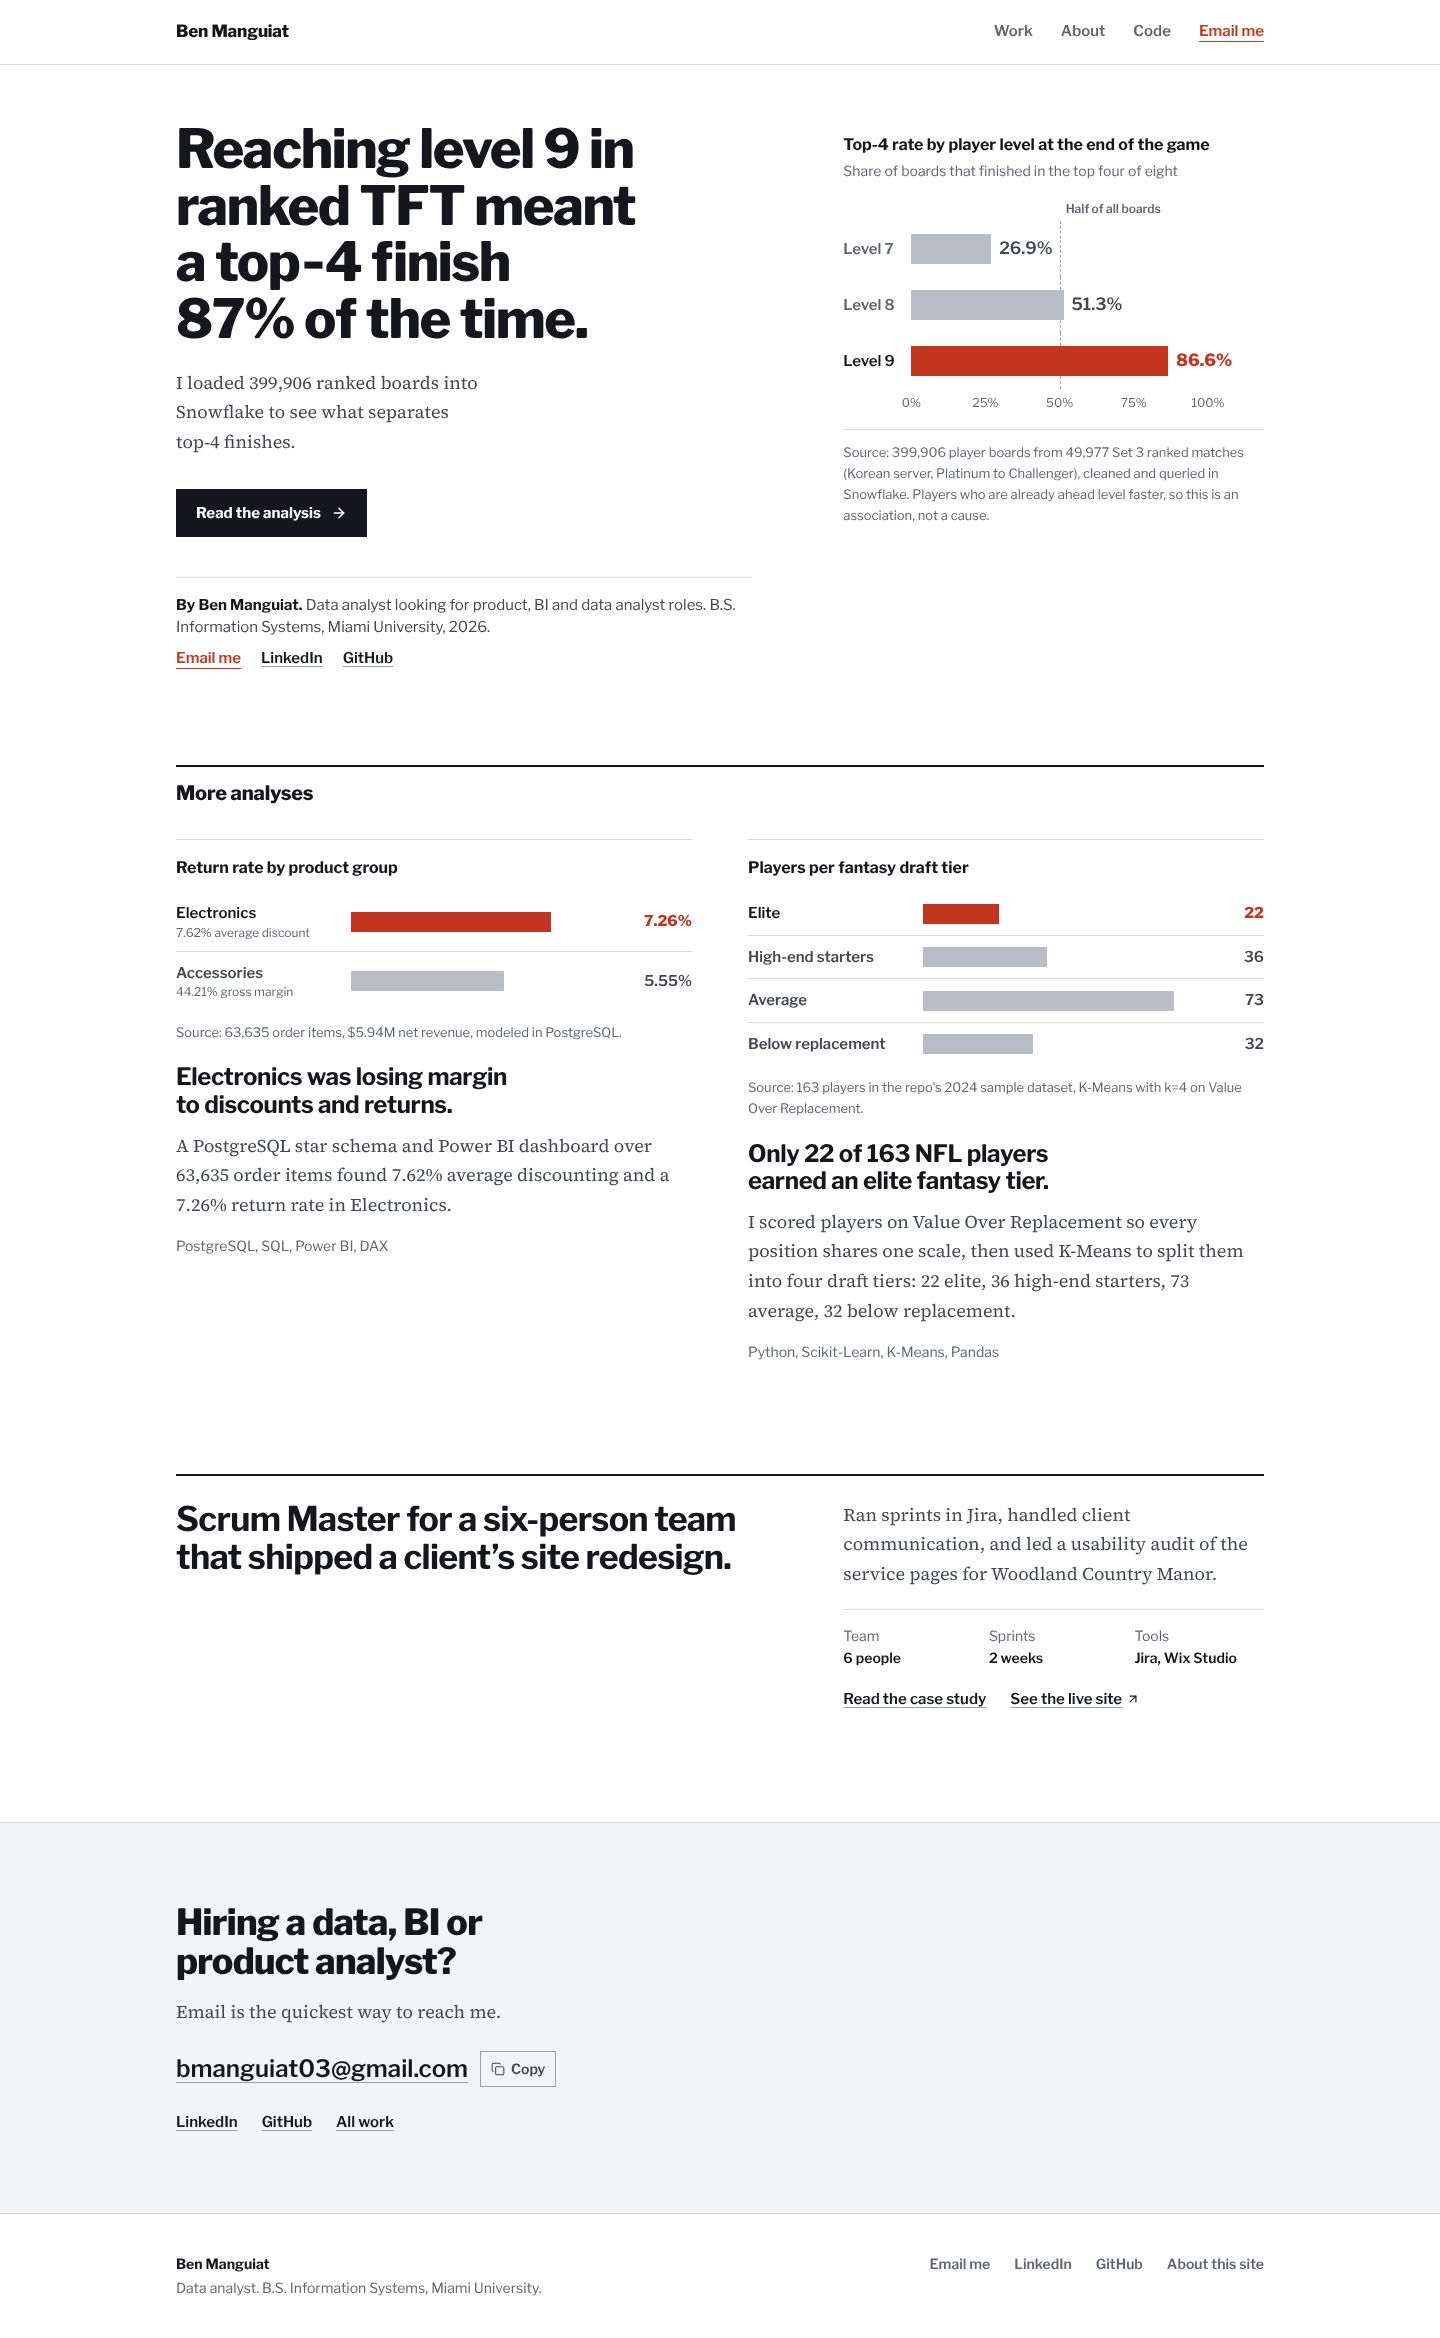
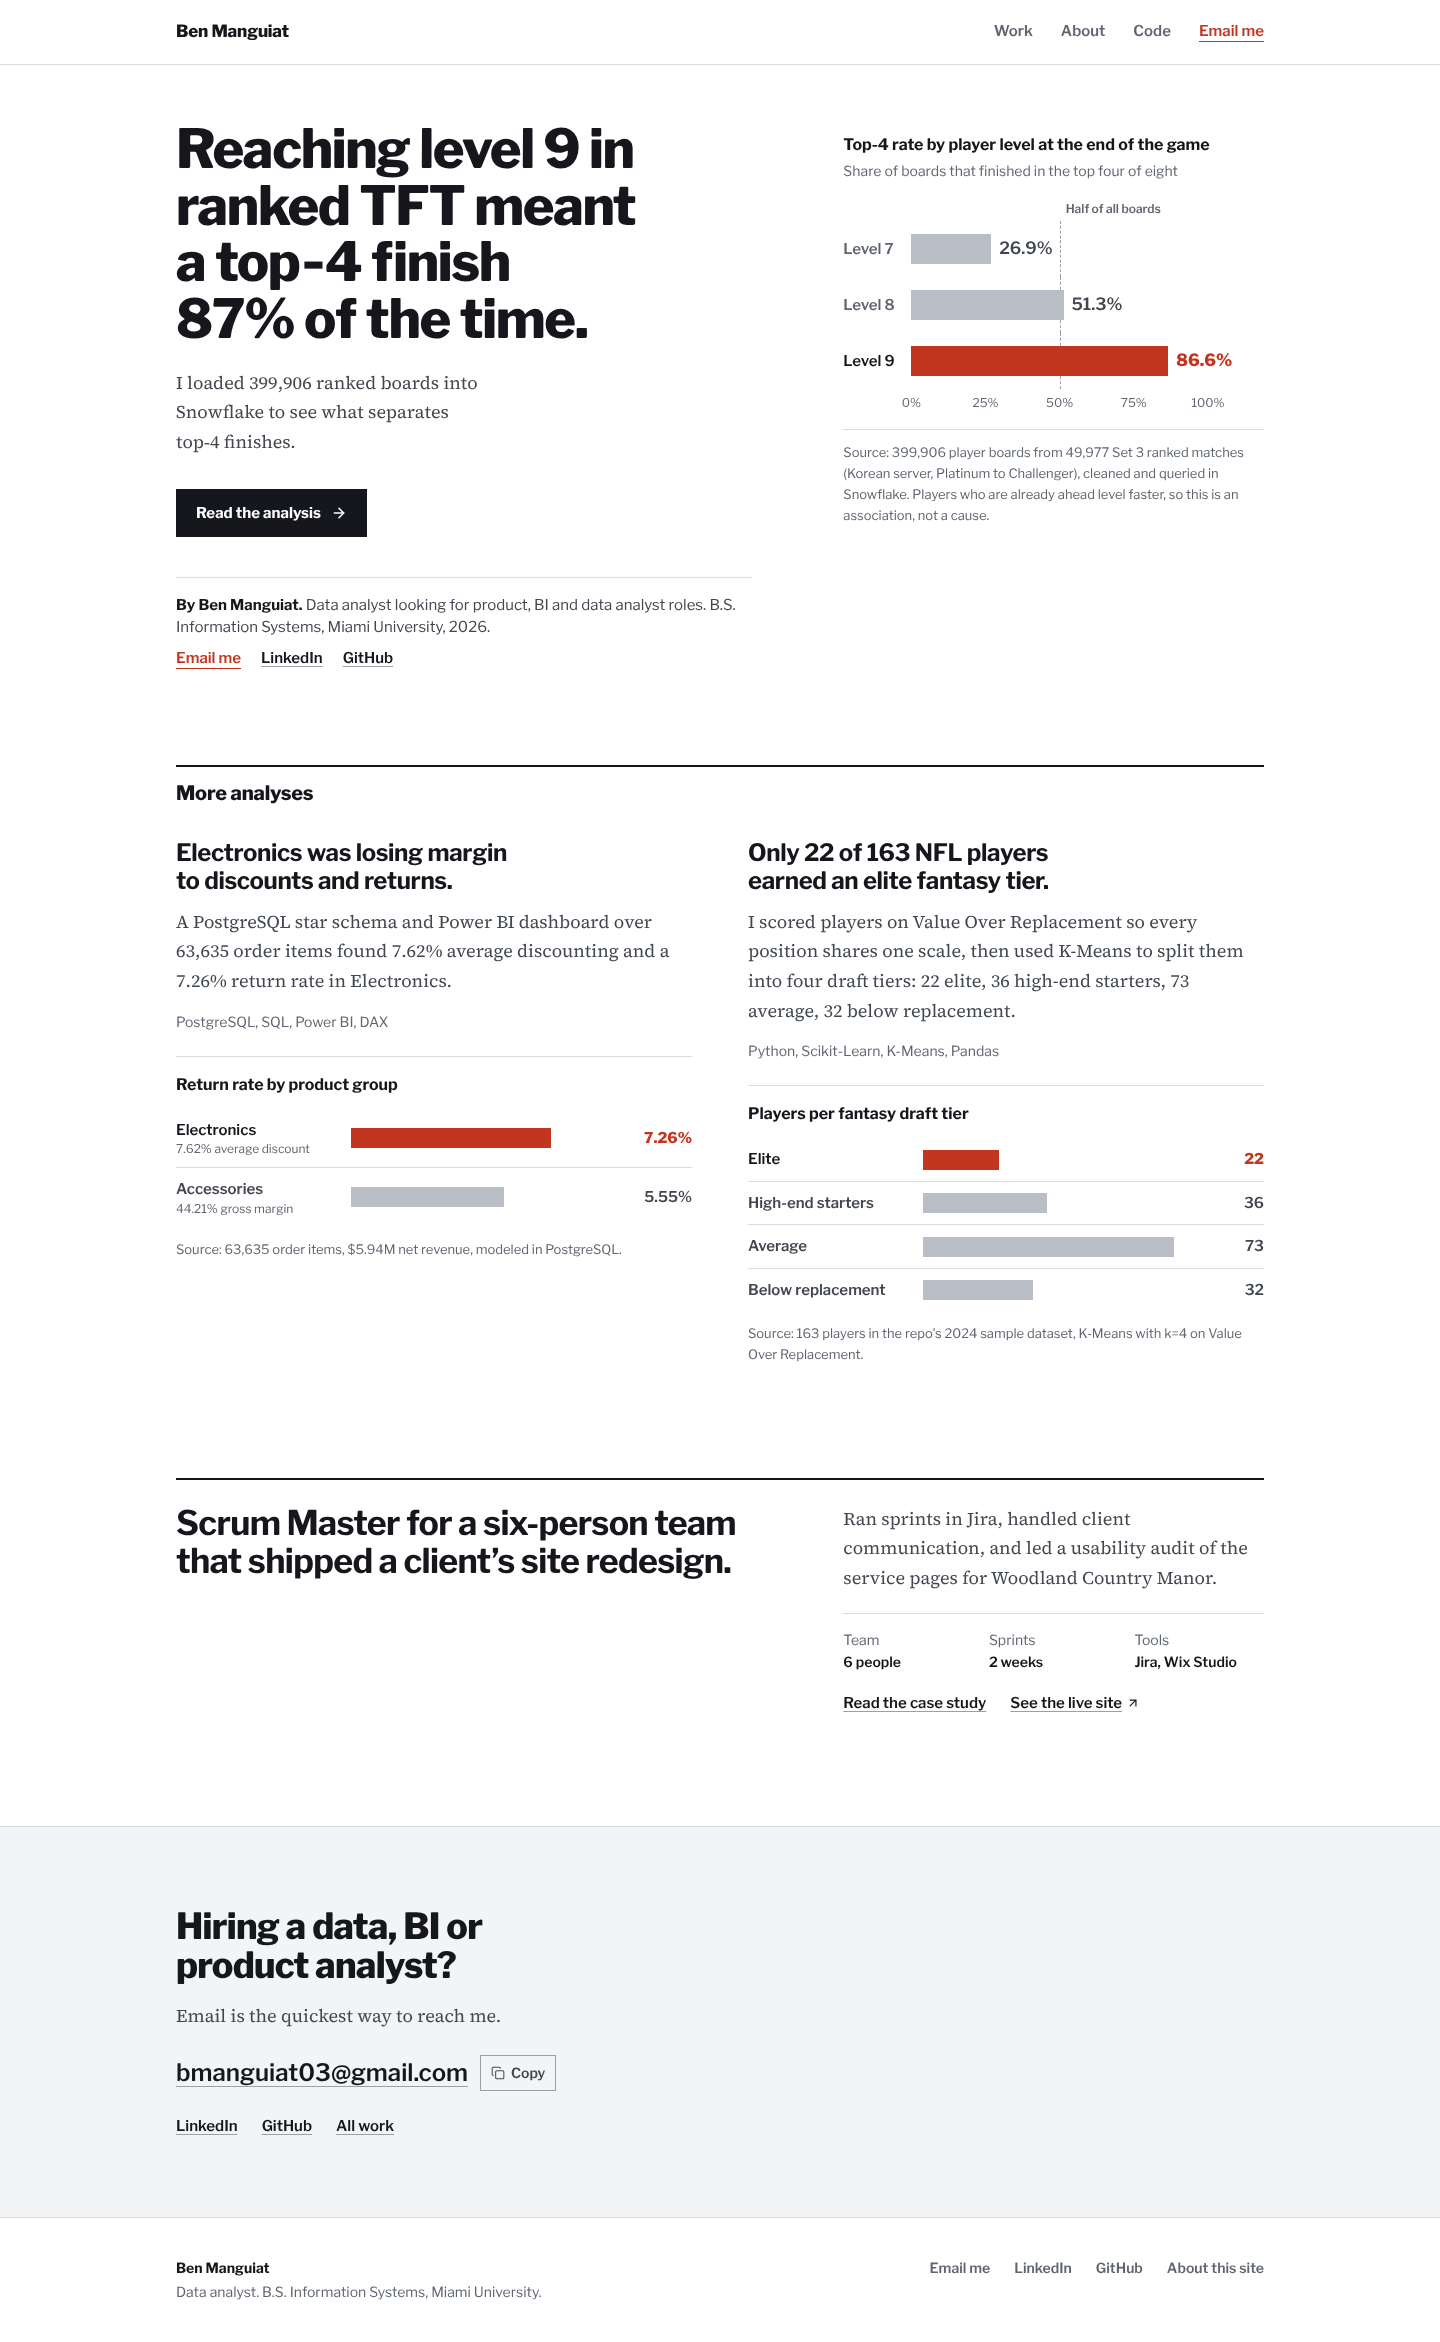
Align home story headlines and case-study facts row
Figures move below each story so headlines share a baseline; the Project
fact gets its own row. Refresh review captures.

Claude-Session: https://claude.ai/code/session_013nLYiB6dcjrzuh2S89eT3V

diff --git a/app/page.tsx b/app/page.tsx
@@ -71,10 +71,7 @@ export default function Home() {
         <div className="mt-8 grid grid-cols-1 gap-14 md:grid-cols-2 md:gap-10 lg:gap-14">
           {more.map(({ project, story }) => (
             <article key={project.slug} className="group relative flex flex-col">
-              <div className="border-t border-rule pt-4">
-                <StoryFigure slug={project.slug} />
-              </div>
-              <h3 className="mt-5 text-2xl font-bold leading-[1.15] tracking-[-0.015em] text-ink">
+              <h3 className="text-2xl font-bold leading-[1.15] tracking-[-0.015em] text-ink">
                 <Link href={`/projects/${project.slug}`} className="after:absolute after:inset-0 group-hover:underline group-hover:decoration-2 group-hover:decoration-accent group-hover:underline-offset-[0.18em]">
                   {story.headline}
                 </Link>
@@ -83,6 +80,9 @@ export default function Home() {
               <p className="mt-4 text-sm text-ink-3">
                 {project.technologies.slice(0, 4).join(', ')}
               </p>
+              <div className="mt-6 border-t border-rule pt-4">
+                <StoryFigure slug={project.slug} />
+              </div>
             </article>
           ))}
         </div>

diff --git a/app/projects/[slug]/page.tsx b/app/projects/[slug]/page.tsx
@@ -67,7 +67,7 @@ export default async function ProjectDetailPage({ params }: { params: Promise<{ 
         <p className="prose-body mt-5 max-w-[62ch] text-xl">{keepTogether(project.summary)}</p>
 
         <dl className="mt-8 grid grid-cols-2 gap-x-8 gap-y-4 border-t border-rule pt-4 text-sm sm:grid-cols-4">
-          <div className="col-span-2">
+          <div className="col-span-2 sm:col-span-4">
             <dt className="text-ink-3">Project</dt>
             <dd className="mt-0.5 font-semibold text-ink">{project.title}</dd>
           </div>

diff --git a/.impeccable/critique/2026-10-08T18-25-06Z__app.md b/.impeccable/critique/2026-10-08T18-25-06Z__app.md
@@ -8,6 +8,7 @@ p1_count: 2
 target_identity: "file:/home/user/ben-portfolio/app"
 timestamp: 2026-10-08T18-25-06Z
 slug: app
+closed: true
 ---
 # Critique: whole portfolio site (home, /projects, /projects/tft-snowflake, /about)
 
